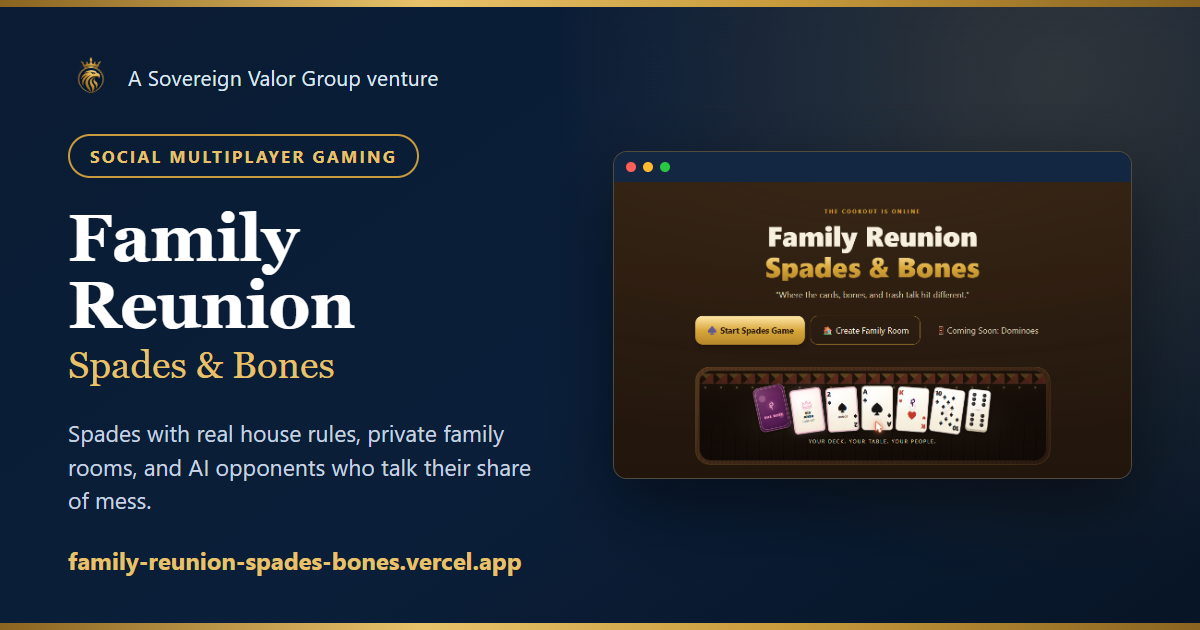
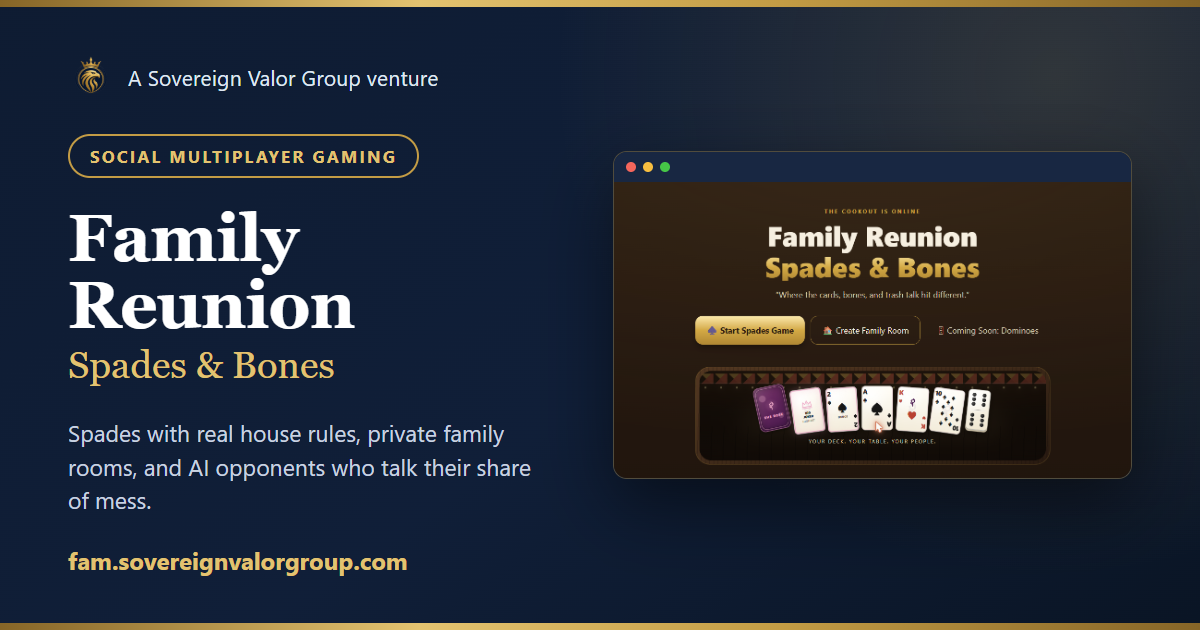
Point Family Reunion at fam.sovereignvalorgroup.com
The subdomain now resolves and serves the app over a valid Let's Encrypt
certificate; Vercel reports a valid configuration. Registry updated, so the
roster rows, ventures index, detail page CTAs, and SoftwareApplication schema
all use the first-party hostname.

Share card regenerated to print the short URL (also re-encoded smaller,
307KB from 641KB).

Claude-Session: https://claude.ai/code/session_01Pf8sXWwCxFeLAvBwSWQcWE

Changed region(s): [[0.0925, 0.8746, 0.4317, 0.9048]]

diff --git a/index.html b/index.html
@@ -34,7 +34,7 @@
   <link rel="preconnect" href="https://fonts.gstatic.com" crossorigin />
   <link href="https://fonts.googleapis.com/css2?family=Cinzel:wght@600;700&family=Public+Sans:wght@400;700&display=swap" rel="stylesheet" />
   <link rel="stylesheet" href="/styles.css" />
-  <script type="application/ld+json">{"@context":"https://schema.org","@graph":[{"@type":["Organization","ProfessionalService"],"@id":"https://sovereignvalorgroup.com/#organization","name":"Sovereign Valor Group","legalName":"Sovereign Valor Group LLC","alternateName":"SVG","url":"https://sovereignvalorgroup.com/","logo":"https://sovereignvalorgroup.com/assets/logos/svg-logo-full.png","image":"https://sovereignvalorgroup.com/assets/og-image.png","slogan":"Honor in planning. Valor in execution.","description":"Sovereign Valor Group is a veteran-owned technology, consulting, and venture development company. We provide strategic planning, project and program management, systems integration and automation, technical documentation, and product design and development — and we build and operate our own portfolio of digital ventures.","email":"support@sovereignvalorgroup.com","areaServed":"US","knowsAbout":["Strategic Planning","Project & Program Management","Systems Integration & Automation","Technical Documentation","Product Design & Development","Veteran-Owned Venture Support"],"hasOfferCatalog":{"@type":"OfferCatalog","name":"Professional Services","itemListElement":[{"@type":"Offer","itemOffered":{"@type":"Service","name":"Strategic Planning","description":"We define the mission, prioritize the work, and create a clear execution path with milestones, risks, and measurable outcomes."}},{"@type":"Offer","itemOffered":{"@type":"Service","name":"Project & Program Management","description":"We bring disciplined project and program management to complex initiatives — schedules, governance, and reporting that keep teams aligned and accountable."}},{"@type":"Offer","itemOffered":{"@type":"Service","name":"Systems Integration & Automation","description":"We connect tools, workflows, APIs, and business systems so information moves on its own — reducing double-entry and the errors that come with it."}},{"@type":"Offer","itemOffered":{"@type":"Service","name":"Technical Documentation","description":"We create clear technical, operational, training, process, and compliance documentation that captures how the work is really done."}},{"@type":"Offer","itemOffered":{"@type":"Service","name":"Product Design & Development","description":"We turn business concepts into digital products, applications, workflows, and user experiences — designed, built, and shipped."}},{"@type":"Offer","itemOffered":{"@type":"Service","name":"Veteran-Owned Venture Support","description":"We help veteran entrepreneurs structure, build, modernize, and scale technology-driven businesses — from first plan to running system."}}]},"owns":[{"@id":"https://sovereignvalorgroup.com/ventures/devotion-after-victory.html#product"},{"@id":"https://sovereignvalorgroup.com/ventures/opsconduit.html#product"},{"@id":"https://sovereignvalorgroup.com/ventures/lottery-pattern-engine.html#product"},{"@id":"https://sovereignvalorgroup.com/ventures/vocasa.html#product"},{"@id":"https://sovereignvalorgroup.com/ventures/accountability-workout-app.html#product"},{"@id":"https://sovereignvalorgroup.com/ventures/lumira.html#product"},{"@id":"https://sovereignvalorgroup.com/ventures/family-reunion.html#product"}]},{"@type":"WebSite","@id":"https://sovereignvalorgroup.com/#website","url":"https://sovereignvalorgroup.com/","name":"Sovereign Valor Group","publisher":{"@id":"https://sovereignvalorgroup.com/#organization"},"inLanguage":"en-US"},{"@type":"SoftwareApplication","@id":"https://sovereignvalorgroup.com/ventures/devotion-after-victory.html#product","name":"Devotion After Victory","applicationCategory":"Community Platform","description":"A connection platform built for the veteran community — bringing people who have served, and those who value that service, together with intention and respect.","url":"https://devotionaftervictory.com","publisher":{"@id":"https://sovereignvalorgroup.com/#organization"},"producer":{"@id":"https://sovereignvalorgroup.com/#organization"}},{"@type":"SoftwareApplication","@id":"https://sovereignvalorgroup.com/ventures/opsconduit.html#product","name":"OpsConduit","applicationCategory":"Integration Middleware","description":"A secure integration hub that connects Casebook, monday.com, and Google Workspace — keeping an organization's case records, tasks, files, and calendars automatically in sync.","url":"https://opsconduit.vercel.app","publisher":{"@id":"https://sovereignvalorgroup.com/#organization"},"producer":{"@id":"https://sovereignvalorgroup.com/#organization"}},{"@type":"SoftwareApplication","@id":"https://sovereignvalorgroup.com/ventures/lottery-pattern-engine.html#product","name":"Lottery Pattern Engine","applicationCategory":"AI Data Analytics","description":"An AI-powered lottery pattern analysis engine for Lotto Texas, Powerball, Mega Millions, and Pick 3 — built with Next.js, TypeScript, and Neon Postgres.","url":"https://lottery-pattern-engine.vercel.app","publisher":{"@id":"https://sovereignvalorgroup.com/#organization"},"producer":{"@id":"https://sovereignvalorgroup.com/#organization"}},{"@type":"SoftwareApplication","@id":"https://sovereignvalorgroup.com/ventures/vocasa.html#product","name":"Vocasa","applicationCategory":"Voice-Powered Design Tool","description":"A voice-powered app that turns spoken instructions and rough sketches into editable, to-scale home floor plans — describe the space, and Vocasa drafts it.","url":"https://vocasa-seven.vercel.app","publisher":{"@id":"https://sovereignvalorgroup.com/#organization"},"producer":{"@id":"https://sovereignvalorgroup.com/#organization"}},{"@type":"SoftwareApplication","@id":"https://sovereignvalorgroup.com/ventures/accountability-workout-app.html#product","name":"Accountability Workout App","applicationCategory":"Fitness Platform","description":"A fitness accountability platform that connects trainers and clients worldwide through video coaching, daily check-ins, and AI-assisted workout and meal planning.","url":"https://awa.sovereignvalorgroup.com","publisher":{"@id":"https://sovereignvalorgroup.com/#organization"},"producer":{"@id":"https://sovereignvalorgroup.com/#organization"}},{"@type":"SoftwareApplication","@id":"https://sovereignvalorgroup.com/ventures/lumira.html#product","name":"Lumira","applicationCategory":"Multisensory Learning VR","description":"A multisensory VR experience that makes reading and math click for dyslexic learners — through movement, sound, and play.","url":"https://lumira-kohl.vercel.app","publisher":{"@id":"https://sovereignvalorgroup.com/#organization"},"producer":{"@id":"https://sovereignvalorgroup.com/#organization"}},{"@type":"SoftwareApplication","@id":"https://sovereignvalorgroup.com/ventures/family-reunion.html#product","name":"Family Reunion: Spades & Bones","applicationCategory":"Social Multiplayer Gaming","description":"A social multiplayer gaming app built around the family table — Spades first, Dominoes next — with private family rooms, house rules, AI opponents who talk their share of mess, and live video seats around the board.","url":"https://family-reunion-spades-bones.vercel.app","publisher":{"@id":"https://sovereignvalorgroup.com/#organization"},"producer":{"@id":"https://sovereignvalorgroup.com/#organization"}}]}</script>
+  <script type="application/ld+json">{"@context":"https://schema.org","@graph":[{"@type":["Organization","ProfessionalService"],"@id":"https://sovereignvalorgroup.com/#organization","name":"Sovereign Valor Group","legalName":"Sovereign Valor Group LLC","alternateName":"SVG","url":"https://sovereignvalorgroup.com/","logo":"https://sovereignvalorgroup.com/assets/logos/svg-logo-full.png","image":"https://sovereignvalorgroup.com/assets/og-image.png","slogan":"Honor in planning. Valor in execution.","description":"Sovereign Valor Group is a veteran-owned technology, consulting, and venture development company. We provide strategic planning, project and program management, systems integration and automation, technical documentation, and product design and development — and we build and operate our own portfolio of digital ventures.","email":"support@sovereignvalorgroup.com","areaServed":"US","knowsAbout":["Strategic Planning","Project & Program Management","Systems Integration & Automation","Technical Documentation","Product Design & Development","Veteran-Owned Venture Support"],"hasOfferCatalog":{"@type":"OfferCatalog","name":"Professional Services","itemListElement":[{"@type":"Offer","itemOffered":{"@type":"Service","name":"Strategic Planning","description":"We define the mission, prioritize the work, and create a clear execution path with milestones, risks, and measurable outcomes."}},{"@type":"Offer","itemOffered":{"@type":"Service","name":"Project & Program Management","description":"We bring disciplined project and program management to complex initiatives — schedules, governance, and reporting that keep teams aligned and accountable."}},{"@type":"Offer","itemOffered":{"@type":"Service","name":"Systems Integration & Automation","description":"We connect tools, workflows, APIs, and business systems so information moves on its own — reducing double-entry and the errors that come with it."}},{"@type":"Offer","itemOffered":{"@type":"Service","name":"Technical Documentation","description":"We create clear technical, operational, training, process, and compliance documentation that captures how the work is really done."}},{"@type":"Offer","itemOffered":{"@type":"Service","name":"Product Design & Development","description":"We turn business concepts into digital products, applications, workflows, and user experiences — designed, built, and shipped."}},{"@type":"Offer","itemOffered":{"@type":"Service","name":"Veteran-Owned Venture Support","description":"We help veteran entrepreneurs structure, build, modernize, and scale technology-driven businesses — from first plan to running system."}}]},"owns":[{"@id":"https://sovereignvalorgroup.com/ventures/devotion-after-victory.html#product"},{"@id":"https://sovereignvalorgroup.com/ventures/opsconduit.html#product"},{"@id":"https://sovereignvalorgroup.com/ventures/lottery-pattern-engine.html#product"},{"@id":"https://sovereignvalorgroup.com/ventures/vocasa.html#product"},{"@id":"https://sovereignvalorgroup.com/ventures/accountability-workout-app.html#product"},{"@id":"https://sovereignvalorgroup.com/ventures/lumira.html#product"},{"@id":"https://sovereignvalorgroup.com/ventures/family-reunion.html#product"}]},{"@type":"WebSite","@id":"https://sovereignvalorgroup.com/#website","url":"https://sovereignvalorgroup.com/","name":"Sovereign Valor Group","publisher":{"@id":"https://sovereignvalorgroup.com/#organization"},"inLanguage":"en-US"},{"@type":"SoftwareApplication","@id":"https://sovereignvalorgroup.com/ventures/devotion-after-victory.html#product","name":"Devotion After Victory","applicationCategory":"Community Platform","description":"A connection platform built for the veteran community — bringing people who have served, and those who value that service, together with intention and respect.","url":"https://devotionaftervictory.com","publisher":{"@id":"https://sovereignvalorgroup.com/#organization"},"producer":{"@id":"https://sovereignvalorgroup.com/#organization"}},{"@type":"SoftwareApplication","@id":"https://sovereignvalorgroup.com/ventures/opsconduit.html#product","name":"OpsConduit","applicationCategory":"Integration Middleware","description":"A secure integration hub that connects Casebook, monday.com, and Google Workspace — keeping an organization's case records, tasks, files, and calendars automatically in sync.","url":"https://opsconduit.vercel.app","publisher":{"@id":"https://sovereignvalorgroup.com/#organization"},"producer":{"@id":"https://sovereignvalorgroup.com/#organization"}},{"@type":"SoftwareApplication","@id":"https://sovereignvalorgroup.com/ventures/lottery-pattern-engine.html#product","name":"Lottery Pattern Engine","applicationCategory":"AI Data Analytics","description":"An AI-powered lottery pattern analysis engine for Lotto Texas, Powerball, Mega Millions, and Pick 3 — built with Next.js, TypeScript, and Neon Postgres.","url":"https://lottery-pattern-engine.vercel.app","publisher":{"@id":"https://sovereignvalorgroup.com/#organization"},"producer":{"@id":"https://sovereignvalorgroup.com/#organization"}},{"@type":"SoftwareApplication","@id":"https://sovereignvalorgroup.com/ventures/vocasa.html#product","name":"Vocasa","applicationCategory":"Voice-Powered Design Tool","description":"A voice-powered app that turns spoken instructions and rough sketches into editable, to-scale home floor plans — describe the space, and Vocasa drafts it.","url":"https://vocasa-seven.vercel.app","publisher":{"@id":"https://sovereignvalorgroup.com/#organization"},"producer":{"@id":"https://sovereignvalorgroup.com/#organization"}},{"@type":"SoftwareApplication","@id":"https://sovereignvalorgroup.com/ventures/accountability-workout-app.html#product","name":"Accountability Workout App","applicationCategory":"Fitness Platform","description":"A fitness accountability platform that connects trainers and clients worldwide through video coaching, daily check-ins, and AI-assisted workout and meal planning.","url":"https://awa.sovereignvalorgroup.com","publisher":{"@id":"https://sovereignvalorgroup.com/#organization"},"producer":{"@id":"https://sovereignvalorgroup.com/#organization"}},{"@type":"SoftwareApplication","@id":"https://sovereignvalorgroup.com/ventures/lumira.html#product","name":"Lumira","applicationCategory":"Multisensory Learning VR","description":"A multisensory VR experience that makes reading and math click for dyslexic learners — through movement, sound, and play.","url":"https://lumira-kohl.vercel.app","publisher":{"@id":"https://sovereignvalorgroup.com/#organization"},"producer":{"@id":"https://sovereignvalorgroup.com/#organization"}},{"@type":"SoftwareApplication","@id":"https://sovereignvalorgroup.com/ventures/family-reunion.html#product","name":"Family Reunion: Spades & Bones","applicationCategory":"Social Multiplayer Gaming","description":"A social multiplayer gaming app built around the family table — Spades first, Dominoes next — with private family rooms, house rules, AI opponents who talk their share of mess, and live video seats around the board.","url":"https://fam.sovereignvalorgroup.com","publisher":{"@id":"https://sovereignvalorgroup.com/#organization"},"producer":{"@id":"https://sovereignvalorgroup.com/#organization"}}]}</script>
 
   <!-- Google Analytics 4 -->
   <script async src="https://www.googletagmanager.com/gtag/js?id=G-XGDL0Z8612"></script>
@@ -287,7 +287,7 @@
             <div class="venture-actions">
               <span class="status status--live">Live</span>
               <a class="button ghost" href="/ventures/family-reunion.html" data-event="venture_view" data-venture-name="Family Reunion" data-cta-location="index">View Family Reunion &rarr;</a>
-              <a class="button ghost" href="https://family-reunion-spades-bones.vercel.app" target="_blank" rel="noopener" data-event="venture_click" data-venture-name="Family Reunion" data-venture-url="https://family-reunion-spades-bones.vercel.app" data-cta-location="index">Visit family-reunion-spades-bones.vercel.app &#8599;</a>
+              <a class="button ghost" href="https://fam.sovereignvalorgroup.com" target="_blank" rel="noopener" data-event="venture_click" data-venture-name="Family Reunion" data-venture-url="https://fam.sovereignvalorgroup.com" data-cta-location="index">Visit fam.sovereignvalorgroup.com &#8599;</a>
             </div>
           </article>
         </div>

diff --git a/ventures/family-reunion.html b/ventures/family-reunion.html
@@ -79,7 +79,7 @@
           <p class="hero-text" style="color:var(--gold-hi); font-family:Cinzel,serif; font-size:1.3rem; margin-top:-8px;">Spades &amp; Bones</p>
           <p class="hero-text">A social multiplayer gaming app built around the family table — Spades first, Dominoes next — with private family rooms, house rules, AI opponents who talk their share of mess, and live video seats around the board.</p>
           <div class="hero-actions">
-            <a class="button primary" href="https://family-reunion-spades-bones.vercel.app" target="_blank" rel="noopener" data-event="venture_click" data-venture-name="Family Reunion" data-venture-url="https://family-reunion-spades-bones.vercel.app" data-cta-location="venture_hero">Visit family-reunion-spades-bones.vercel.app &#8599;</a>
+            <a class="button primary" href="https://fam.sovereignvalorgroup.com" target="_blank" rel="noopener" data-event="venture_click" data-venture-name="Family Reunion" data-venture-url="https://fam.sovereignvalorgroup.com" data-cta-location="venture_hero">Visit fam.sovereignvalorgroup.com &#8599;</a>
             <a class="button secondary" href="/ventures/">Explore Our Ventures</a>
           </div>
         </div>
@@ -127,7 +127,7 @@
         <div class="reveal">
           <p>Family Reunion is live. Pull up a chair, deal a hand of Spades, and see the reunion table for yourself.</p>
           <div class="mission-actions">
-            <a class="button primary" href="https://family-reunion-spades-bones.vercel.app" target="_blank" rel="noopener" data-event="venture_click" data-venture-name="Family Reunion" data-venture-url="https://family-reunion-spades-bones.vercel.app" data-cta-location="venture_footer">Visit family-reunion-spades-bones.vercel.app &#8599;</a>
+            <a class="button primary" href="https://fam.sovereignvalorgroup.com" target="_blank" rel="noopener" data-event="venture_click" data-venture-name="Family Reunion" data-venture-url="https://fam.sovereignvalorgroup.com" data-cta-location="venture_footer">Visit fam.sovereignvalorgroup.com &#8599;</a>
             <a class="button secondary" href="/contact.html" data-event="consultation_click" data-cta-location="venture_footer">Schedule a Consultation</a>
           </div>
         </div>

diff --git a/ventures/index.html b/ventures/index.html
@@ -185,7 +185,7 @@
             <div class="venture-actions">
               <span class="status status--live">Live</span>
               <a class="button ghost" href="/ventures/family-reunion.html" data-event="venture_view" data-venture-name="Family Reunion" data-cta-location="ventures/index">View Family Reunion &rarr;</a>
-              <a class="button ghost" href="https://family-reunion-spades-bones.vercel.app" target="_blank" rel="noopener" data-event="venture_click" data-venture-name="Family Reunion" data-venture-url="https://family-reunion-spades-bones.vercel.app" data-cta-location="ventures/index">Visit family-reunion-spades-bones.vercel.app &#8599;</a>
+              <a class="button ghost" href="https://fam.sovereignvalorgroup.com" target="_blank" rel="noopener" data-event="venture_click" data-venture-name="Family Reunion" data-venture-url="https://fam.sovereignvalorgroup.com" data-cta-location="ventures/index">Visit fam.sovereignvalorgroup.com &#8599;</a>
             </div>
           </article>
         </div>
